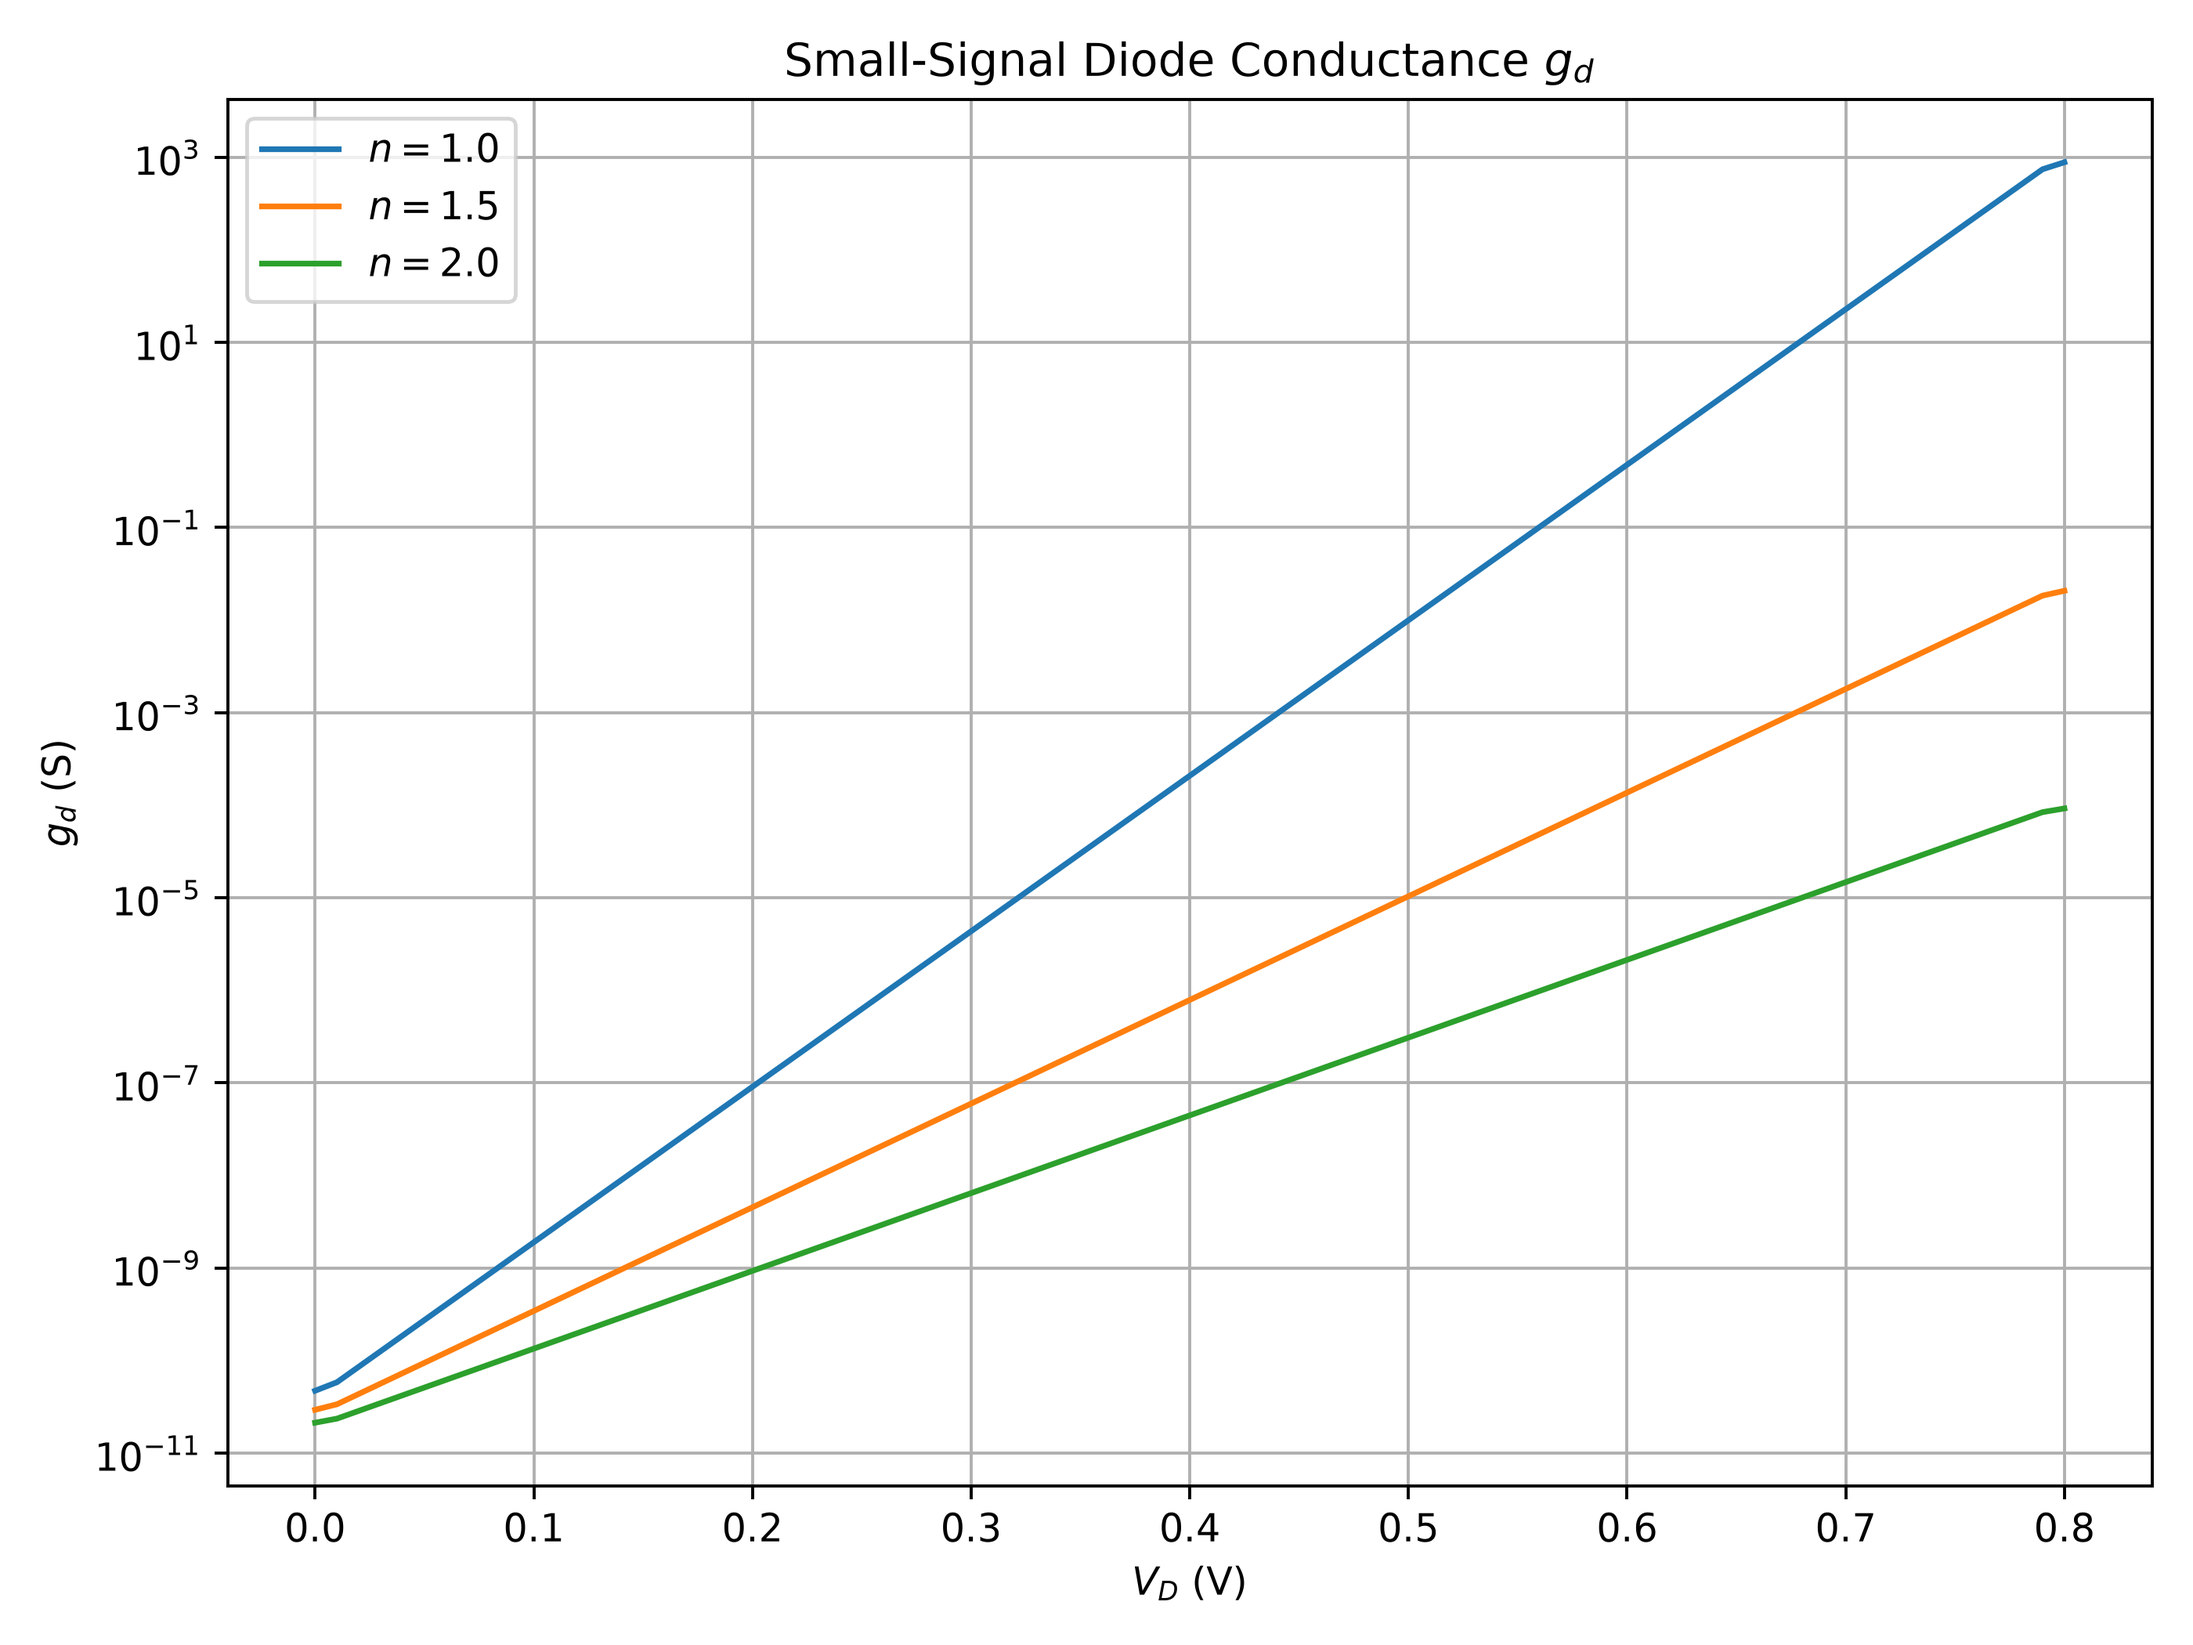
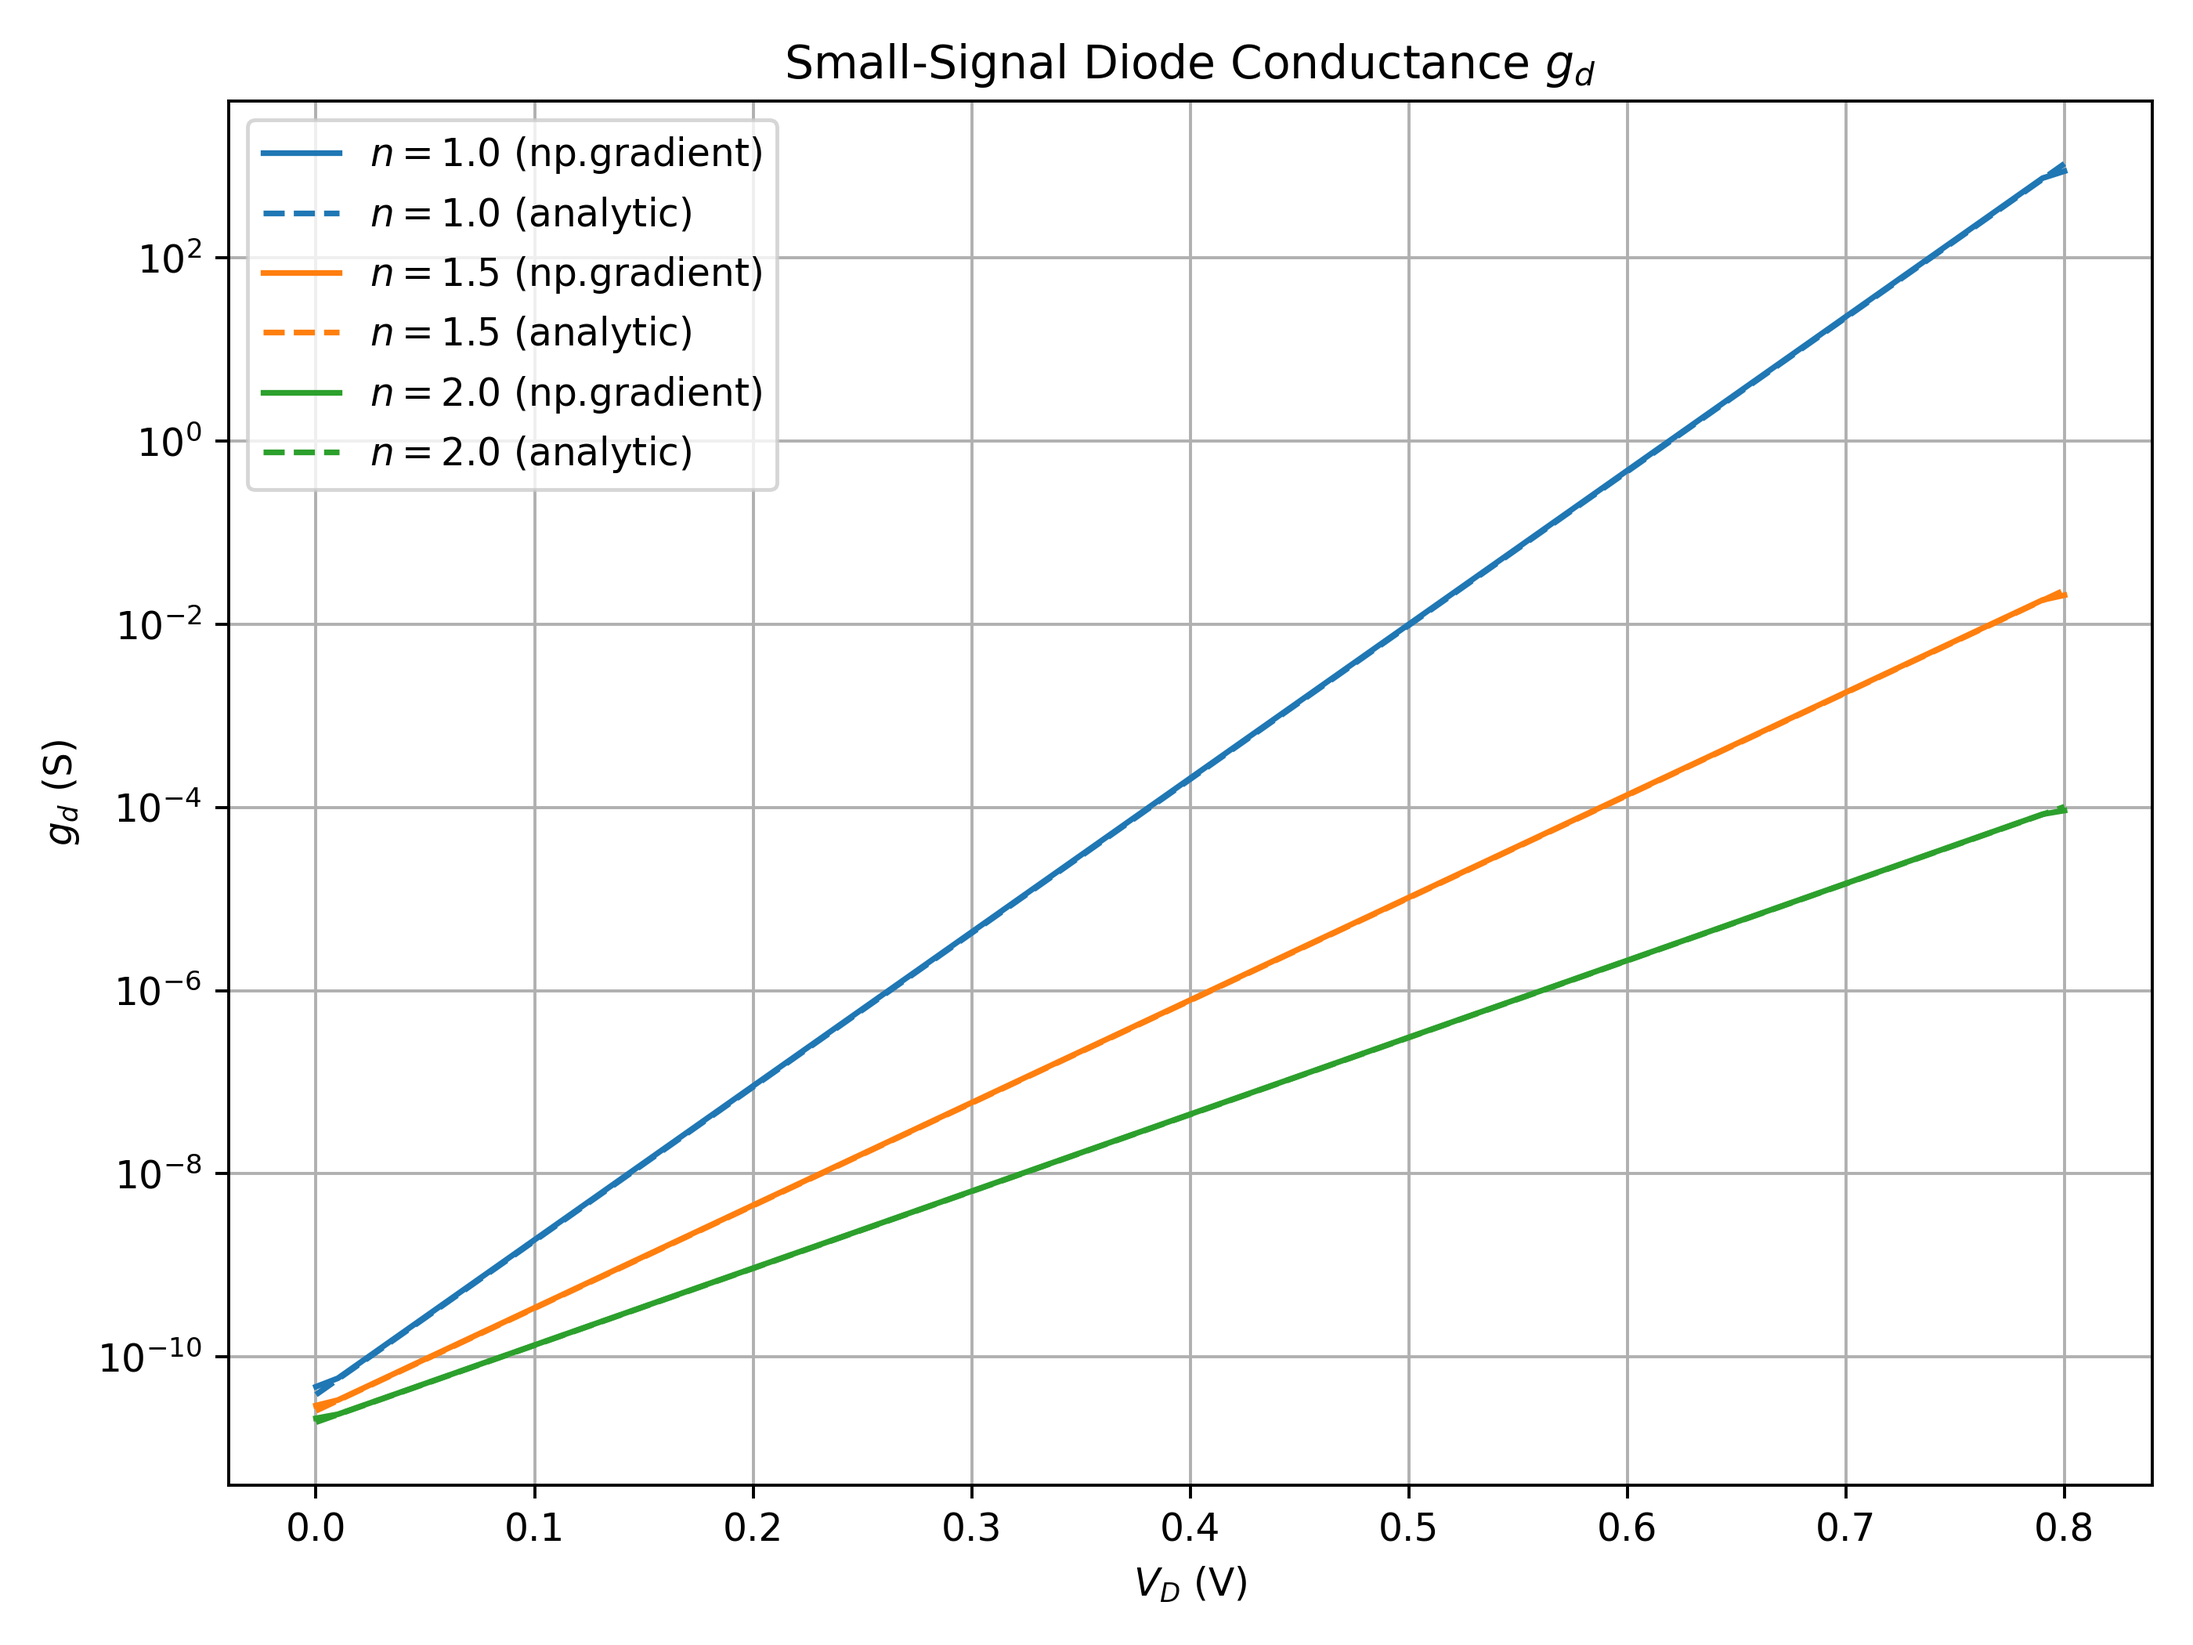
Rename bonus script to diode_iv.py; analytic g_d overlay

diff --git a/E9_transconductance.py b/E9_transconductance.py
@@ -8,80 +8,54 @@ df = pd.read_csv("E9_mosfet_transfer.csv")
 # Create two plots side by side
 fig, ax = plt.subplots(1, 2, figsize=(11, 4.5))
 
-# Process each VDS value
+# Where to put each peak label, so labels do not overlap
+label_pos = {0.1: (5.2, 1.0), 1.0: (5.2, 2.9), 3.0: (5.2, 6.2), 5.0: (2.4, 13.2)}  # data coords, free areas
+
 for v_ds, group in df.groupby("V_DS (V)"):
-
-    # Sort the data by VGS
     group = group.sort_values("V_GS (V)")
+    v_gs = group["V_GS (V)"].to_numpy()
+    i_d = group["I_D (mA)"].to_numpy()
 
-    v_gs = group["V_GS (V)"]
-    i_d = group["I_D (mA)"]
-
-    # Calculate transconductance
+    # Transconductance: g_m = dI_D/dV_GS  (mA/V = mS)
     gm = np.gradient(i_d, v_gs)
 
-    # ID-VGS plot
-    ax[0].plot(
-        v_gs,
-        i_d,
-        marker="o",
-        linewidth=2,
-        label=f"$V_{{DS}}$ = {v_ds} V"
-    )
+    (line,) = ax[0].plot(v_gs, i_d, marker="o", linewidth=2,
+                         label=f"$V_{{DS}}$ = {v_ds} V")
+    ax[1].plot(v_gs, gm, marker="s", linewidth=2, color=line.get_color(),
+               label=f"$V_{{DS}}$ = {v_ds} V")
 
-    # gm-VGS plot
-    ax[1].plot(
-        v_gs,
-        gm,
-        marker="s",
-        linewidth=2,
-        label=f"$V_{{DS}}$ = {v_ds} V"
-    )
+    # Peak g_m: FIRST point within 0.1 % of the maximum, so a flat plateau
+    # (linear region) reports where it starts rather than a rounding-noise winner.
+    peak_index = np.flatnonzero(np.isclose(gm, gm.max(), rtol=1e-3))[0]
+    peak_gm, peak_vgs = gm[peak_index], v_gs[peak_index]
 
-    # Find peak gm
-    peak_index = np.argmax(gm)
-    peak_gm = gm[peak_index]
-    peak_vgs = v_gs.iloc[peak_index]
-
-    # Mark peak gm
-    ax[1].plot(
-        peak_vgs,
-        peak_gm,
-        marker="o",
-        markersize=8
-    )
-
-    # Mark VGS and peak gm on graph
+    ax[1].plot(peak_vgs, peak_gm, marker="o", markersize=9, color=line.get_color(),
+               markeredgecolor="k", zorder=5)
     ax[1].annotate(
-        f"Peak gm = {peak_gm:.2f} mS\nVGS = {peak_vgs:.2f} V",
-        xy=(peak_vgs, peak_gm),
-        xytext=(10, 10),
-        textcoords="offset points"
+        f"$V_{{DS}}$={v_ds} V\npeak {peak_gm:.2f} mS at $V_{{GS}}$={peak_vgs:.1f} V",
+        xy=(peak_vgs, peak_gm), xytext=label_pos.get(v_ds, (peak_vgs, peak_gm)),
+        textcoords="data", fontsize=8, color=line.get_color(), va="center", ha="left" if v_ds == 5.0 else "right",
+        arrowprops=dict(arrowstyle="-", color=line.get_color()),
     )
 
-    # Print result in terminal
     print(f"V_DS = {v_ds} V")
     print(f"Peak gm = {peak_gm:.3f} mS")
     print(f"V_GS at peak gm = {peak_vgs:.3f} V")
     print()
 
-# ID-VGS graph
 ax[0].set_title("Transfer Characteristics")
 ax[0].set_xlabel("$V_{GS}$ (V)")
 ax[0].set_ylabel("$I_D$ (mA)")
 ax[0].grid(True, linestyle="--", alpha=0.6)
 ax[0].legend()
 
-# gm-VGS graph
-ax[1].set_title("Transconductance")
+ax[1].set_title("Transconductance $g_m = dI_D/dV_{GS}$")
 ax[1].set_xlabel("$V_{GS}$ (V)")
 ax[1].set_ylabel("$g_m$ (mS)")
+ax[1].set_ylim(-0.5, 15)
 ax[1].grid(True, linestyle="--", alpha=0.6)
-ax[1].legend()
+ax[1].legend(loc="upper left")
 
 plt.tight_layout()
-
-# Save E9 result
 plt.savefig("E9_gm_vgs.png", dpi=300)
-
 plt.show()

diff --git a/diode_iv.py b/diode_iv.py
@@ -88,10 +88,18 @@ for n in ideality_factors:
     gd = conductances[n]
     positive = gd > 0
 
-    plt.semilogy(
+    (line,) = plt.semilogy(
         VD[positive],
         gd[positive],
-        label=rf"$n = {n}$"
+        label=rf"$n = {n}$ (np.gradient)"
+    )
+    # exact derivative of the Shockley equation, for comparison
+    plt.semilogy(
+        VD,
+        (IS * (np.exp(VD / (n * VT)) - 1) + IS) / (n * VT),
+        linestyle="--",
+        color=line.get_color(),
+        label=rf"$n = {n}$ (analytic)"
     )
 
 plt.xlabel(r"$V_D$ (V)")
